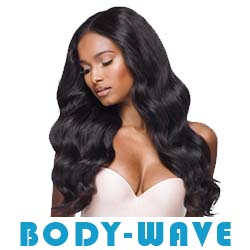
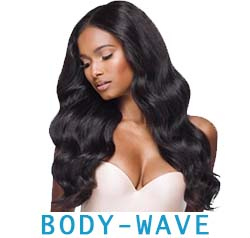
500$

diff --git a/feedback.html b/feedback.html
@@ -63,7 +63,7 @@
     </nav>
 </section>
 
-<section class="engine"><a href="https://mobirise.info/y">html website templates</a></section><section class="mbr-section mbr-section__comments" id="facebook-comments-block-14" data-rv-view="365" style="background-color: rgb(255, 255, 255); padding-top: 6rem; padding-bottom: 6rem;">
+<section class="engine"><a href="https://mobirise.info/p">site templates free download</a></section><section class="mbr-section mbr-section__comments" id="facebook-comments-block-14" data-rv-view="365" style="background-color: rgb(255, 255, 255); padding-top: 6rem; padding-bottom: 6rem;">
          
     <div class="mbr-section__container mbr-section__container--isolated addons-container">
         <div class="addons-row">
@@ -91,7 +91,7 @@
         <div class="row py-2 justify-content-center">
             <div class="col-12 col-lg-6  col-md-8 " data-form-type="formoid">
                 <!---Formbuilder Form--->
[2 lines of base64/hex data omitted]
                     <div class="row">
                         <div hidden="hidden" data-form-alert="" class="alert alert-success col-12">Thanks for filling out the form!</div>
                         <div hidden="hidden" data-form-alert-danger="" class="alert alert-danger col-12">

diff --git a/contact.html b/contact.html
@@ -62,7 +62,7 @@
     </nav>
 </section>
 
-<section class="engine"><a href="https://mobirise.info/v">free html templates</a></section><section class="mbr-section article content1 cid-rksHxPVSOt" id="content1-15">
+<section class="engine"><a href="https://mobirise.info/a">online site builder</a></section><section class="mbr-section article content1 cid-rksHxPVSOt" id="content1-15">
     
      
 
@@ -173,7 +173,7 @@
         <div class="row justify-content-center">
             <div class="media-container-column col-lg-8" data-form-type="formoid">
                 <!---Formbuilder Form--->
[2 lines of base64/hex data omitted]
                     <div class="row row-sm-offset">
                         <div hidden="hidden" data-form-alert="" class="alert alert-success col-12">Jkeitoosh Glam Hair, thank you for contacting us !</div>
                         <div hidden="hidden" data-form-alert-danger="" class="alert alert-danger col-12">

diff --git a/bodywave.html b/bodywave.html
@@ -63,16 +63,16 @@
     </nav>
 </section>
 
-<section class="engine"><a href="https://mobirise.info/f">simple web builder</a></section><section class="mbr-wowslider-container mbr-section mbr-section__container carousel slide mbr-section-nopadding mbr-wowslider-container--absent" data-ride="carousel" data-keyboard="false" data-wrap="true" data-interval="false" id="wowslider-19" data-rv-view="301" style="background-color: rgb(255, 255, 255);">
+<section class="engine"><a href="https://mobirise.info/j">website templates</a></section><section class="mbr-wowslider-container mbr-section mbr-section__container carousel slide mbr-section-nopadding mbr-wowslider-container--absent" data-ride="carousel" data-keyboard="false" data-wrap="true" data-interval="false" id="wowslider-19" data-rv-view="301" style="background-color: rgb(255, 255, 255);">
     <div class="mbr-wowslider">
         <div class="ws_images">
             <ul>
                 <li>
                     
-                    <img src="assets/images/bodywave1-250x-1-250x250.jpg" alt="title 3" title="title 3"> text 3
+                    <img src="assets/images/bodywave1-250x-250x238.jpg" alt="title 3" title="title 3"> text 3
                 </li><li>
                     
-                    <img src="assets/images/bodywave2-250x-1-250x250.jpg" alt="title 3" title="title 3"> text 3
+                    <img src="assets/images/bodywave2-250x-250x238.jpg" alt="title 3" title="title 3"> text 3
                 </li>
             </ul>
         </div>

diff --git a/straight.html b/straight.html
@@ -63,7 +63,7 @@
     </nav>
 </section>
 
-<section class="engine"><a href="https://mobirise.info/h">how to create your own web page</a></section><section class="mbr-wowslider-container mbr-section mbr-section__container carousel slide mbr-section-nopadding mbr-wowslider-container--absent" data-ride="carousel" data-keyboard="false" data-wrap="true" data-interval="false" id="wowslider-19" data-rv-view="217" style="background-color: rgb(255, 255, 255);">
+<section class="engine"><a href="https://mobirise.info/z">best free css templates</a></section><section class="mbr-wowslider-container mbr-section mbr-section__container carousel slide mbr-section-nopadding mbr-wowslider-container--absent" data-ride="carousel" data-keyboard="false" data-wrap="true" data-interval="false" id="wowslider-19" data-rv-view="217" style="background-color: rgb(255, 255, 255);">
     <div class="mbr-wowslider">
         <div class="ws_images">
             <ul>

diff --git a/curly.html b/curly.html
@@ -63,7 +63,7 @@
     </nav>
 </section>
 
-<section class="engine"><a href="https://mobirise.info/v">free html templates</a></section><section class="mbr-wowslider-container mbr-section mbr-section__container carousel slide mbr-section-nopadding mbr-wowslider-container--absent" data-ride="carousel" data-keyboard="false" data-wrap="true" data-interval="false" id="wowslider-19" data-rv-view="259" style="background-color: rgb(255, 255, 255);">
+<section class="engine"><a href="https://mobirise.info/k">develop your own website</a></section><section class="mbr-wowslider-container mbr-section mbr-section__container carousel slide mbr-section-nopadding mbr-wowslider-container--absent" data-ride="carousel" data-keyboard="false" data-wrap="true" data-interval="false" id="wowslider-19" data-rv-view="259" style="background-color: rgb(255, 255, 255);">
     <div class="mbr-wowslider">
         <div class="ws_images">
             <ul>

diff --git a/wig.html b/wig.html
@@ -63,7 +63,7 @@
     </nav>
 </section>
 
-<section class="engine"><a href="https://mobirise.info/y">html web templates</a></section><section class="mbr-wowslider-container mbr-section mbr-section__container carousel slide mbr-section-nopadding mbr-wowslider-container--absent" data-ride="carousel" data-keyboard="false" data-wrap="true" data-interval="false" id="wowslider-11" data-rv-view="111" style="background-color: rgb(255, 255, 255);">
+<section class="engine"><a href="https://mobirise.info/n">simple web templates</a></section><section class="mbr-wowslider-container mbr-section mbr-section__container carousel slide mbr-section-nopadding mbr-wowslider-container--absent" data-ride="carousel" data-keyboard="false" data-wrap="true" data-interval="false" id="wowslider-11" data-rv-view="111" style="background-color: rgb(255, 255, 255);">
     <div class="mbr-wowslider">
         <div class="ws_images">
             <ul>

diff --git a/cart.html b/cart.html
@@ -62,7 +62,7 @@
     </nav>
 </section>
 
-<section class="engine"><a href="https://mobirise.info/e">how to make a website</a></section><section class="mbr-section article content1 cid-rktDNSYQgC" id="content1-1a">
+<section class="engine"><a href="https://mobirise.info/z">best free website templates</a></section><section class="mbr-section article content1 cid-rktDNSYQgC" id="content1-1a">
     
      
 

diff --git a/index.html b/index.html
@@ -63,7 +63,7 @@
     </nav>
 </section>
 
-<section class="engine"><a href="https://mobirise.info/z">best html templates</a></section><section class="mbr-section article content1 cid-rksHxPVSOt" id="content1-15">
+<section class="engine"><a href="https://mobirise.info/d">free site maker</a></section><section class="mbr-section article content1 cid-rksHxPVSOt" id="content1-15">
     
      
 
